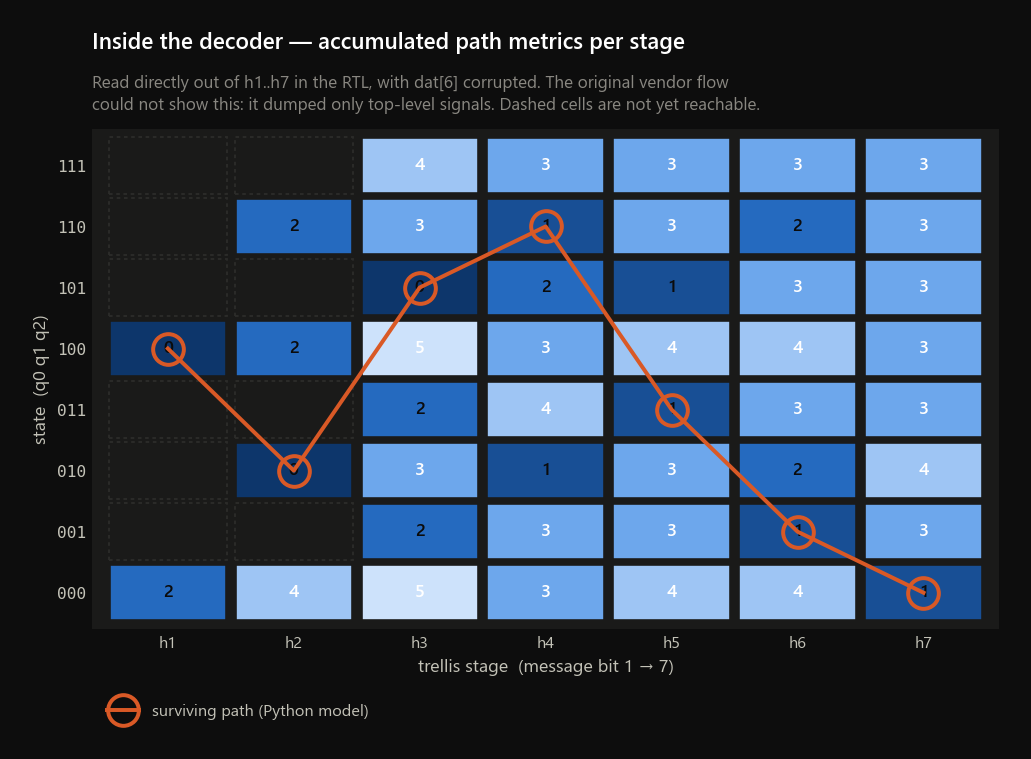
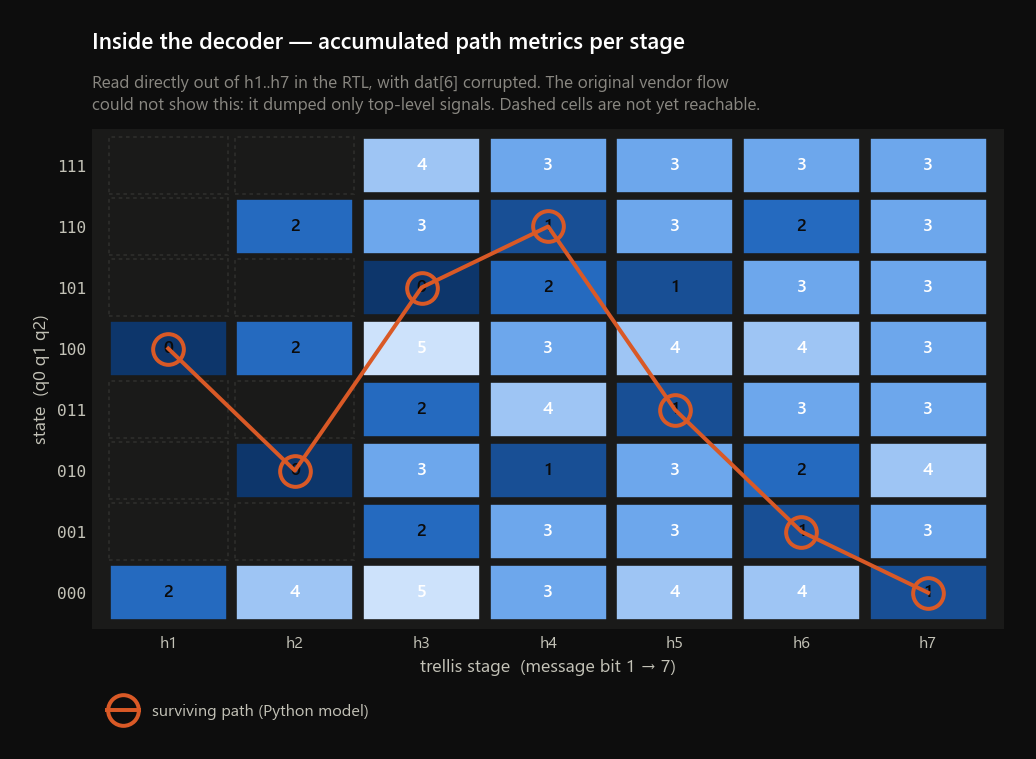
Add terminated-decoder figures; correct the critical-path claim
The terminated decoder had no figure of its own -- the waveforms and the
per-stage metric view both stopped at the 14-bit variant.  tb/decoder_term_bench.sv
decodes a single word so both can be drawn; system_term_tb's VCD covers
2688 cases and is far too large to plot.

The metrics figure deliberately does not use the canonical message.  1011000
already leaves the trellis in state 000, so its tail would confirm rather
than correct and the figure would show the tail doing nothing.  It uses
1011011 instead, which ends in state 110, with codeword bit 0 corrupted --
an error the unterminated decoder gets wrong (it returns 1011010).  The
three tail stages then visibly walk the survivor 110 -> 011 -> 001 -> 000,
which is the whole argument for terminating, in one picture.

Also corrects a wrong claim that had been repeated in three places.  The
docs said the clock ceiling was the seven-deep getReturnPath() case tree.
Reading results/synth/*_nextpnr.log rather than guessing shows otherwise:
in both variants the critical path starts at `data`, runs through a stage's
add-compare-select carry chains and ends at the `lowest_index` register --
it is the eight-way minimum-over-end-states search, chained combinationally
onto metrics computed earlier in the same clock edge because the decoder is
one always block using blocking assignments.

  decoder       60 hops   33.4 ns logic + 44.3 ns routing = 77.7 ns
  decoder_term  14 hops   12.7 ns logic + 24.2 ns routing = 36.9 ns
[…]

diff --git a/scripts/plot_waves.py b/scripts/plot_waves.py
@@ -234,15 +234,15 @@ def draw_encoder_full(theme):
     return fig, "encoder_waveform"
 
 
-def _decoder_figure(theme, vcd_name, stem, title, subtitle):
+def _decoder_figure(theme, vcd_name, stem, title, subtitle, *, dat_width=14):
     tr = Trace(VCD_DIR / vcd_name)
     rows = [
         {"label": "clk",       "y": 6.0, "sig": "clk",     "kind": "bit",
          "ctl": True, "lw": 1.1},
         {"label": "reset",     "y": 5.0, "sig": "reset",   "kind": "bit", "ctl": True},
         {"label": "ready",     "y": 4.0, "sig": "ready",   "kind": "bit", "ctl": True},
-        {"label": "dat[13:0]", "y": 3.0, "sig": "dat",     "kind": "bus", "slot": 0,
-         "width": 14},
+        {"label": f"dat[{dat_width - 1}:0]", "y": 3.0, "sig": "dat",
+         "kind": "bus", "slot": 0, "width": dat_width},
         {"label": "steps_n",   "y": 2.0, "sig": "steps_n", "kind": "bus", "slot": 2},
         {"label": "stage_n",   "y": 1.0, "sig": "stage_n", "kind": "bus", "slot": 3},
         {"label": "out[6:0]",  "y": 0.0, "sig": "out",     "kind": "bus", "slot": 1,
@@ -277,26 +277,37 @@ def draw_decoder_error(theme):
         "demonstrate.")
 
 
-def draw_metrics(theme):
-    """The 8x7 path-metric matrix read straight out of the RTL.
+def draw_decoder_term(theme):
+    return _decoder_figure(
+        theme, "decoder_term_bench.vcd", "decoder_term_waveform",
+        "Terminated decoder — 20-bit block, survivor pinned to state 0",
+        "The same message, encoded with a three-bit zero tail: "
+        "dat = 11110111010111000000.\nsteps_n now walks ten stages rather than "
+        "seven, and traceback needs no end-state search.",
+        dat_width=20)
+
+
+def _metrics_figure(theme, vcd_name, stages, word, end_state, stem,
+                    title, subtitle):
+    """The 8 x `stages` path-metric matrix read straight out of the RTL.
 
     A view the original vendor flow could not produce: it dumped only top-level
-    testbench signals, so h1..h7 were invisible.  Each column is one trellis
+    testbench signals, so h1..hN were invisible.  Each column is one trellis
     stage's converged metrics; the survivor path from the Python model is
     overlaid to show the two agree.
     """
-    tr = Trace(VCD_DIR / "decoder_bench_error.vcd")
+    tr = Trace(VCD_DIR / vcd_name)
     t1 = tr.end
 
     # Each h<k> holds stage k's metrics; take the settled value at end of sim.
-    metrics = np.full((8, 7), np.nan)
-    for k in range(1, 8):
+    metrics = np.full((8, stages), np.nan)
+    for k in range(1, stages + 1):
         for s in range(8):
             _, v = tr.steps(f"h{k}.hammingDistances.finalStates[{s}]", t1)
             metrics[s, k - 1] = v[-1]
 
     # States unreachable that early carry a meaningless zero from reset.
-    for k in range(1, 8):
+    for k in range(1, stages + 1):
         reachable = min(2 ** k, 8)
         if reachable < 8:
             allowed = {0}
@@ -306,15 +317,15 @@ def draw_metrics(theme):
                 if s not in allowed:
                     metrics[s, k - 1] = np.nan
 
-    trace = ref.trellis_trace(ref.CANONICAL_CW ^ (1 << ref.CANONICAL_ERROR_BIT))
+    trace = ref.trellis_trace(word, stages, end_state=end_state)
     path = trace["path"]                    # path[k] = state after stage k
 
-    fig, ax = plt.subplots(figsize=(9.0, 5.0))
+    fig, ax = plt.subplots(figsize=(1.15 * stages + 1.0, 5.0))
     ramp = theme["seq"]
     vmax = np.nanmax(metrics)
 
     for s in range(8):
-        for k in range(7):
+        for k in range(stages):
             val = metrics[s, k]
             if np.isnan(val):
                 ax.add_patch(plt.Rectangle(
@@ -334,32 +345,71 @@ def draw_metrics(theme):
                     color=("#0b0b0b" if light else "#ffffff"))
 
     # survivor path on top
-    xs = list(range(1, 8))
-    ys = [path[k] + 1 for k in range(1, 8)]
+    xs = list(range(1, stages + 1))
+    ys = [path[k] + 1 for k in range(1, stages + 1)]
     # Open markers so the metric printed in each cell stays readable.
     ax.plot(xs, ys, color=theme["series"][1], lw=2.2, marker="o",
             markersize=17, markerfacecolor="none", markeredgewidth=2.2,
             zorder=10, label="surviving path (Python model)")
 
-    ax.set_xlim(0.4, 7.6)
+    # Mark where the message ends and the zero tail begins.
+    if end_state is not None and stages > ref.MSG_BITS:
+        ax.axvline(ref.MSG_BITS + 0.5, color=theme["ink"], lw=1.6)
+        # Only the tail is labelled: the divider and the x-axis label already
+        # say where the message ends, and a second caption here would run into
+        # the subtitle.
+        ax.annotate("zero tail", xy=((ref.MSG_BITS + stages + 2) / 2, 8.60),
+                    xytext=(0, 5), textcoords="offset points", ha="center",
+                    va="bottom", fontsize=9, fontweight="600",
+                    color=theme["ink2"], clip_on=False)
+
+    ax.set_xlim(0.4, stages + 0.6)
     ax.set_ylim(0.4, 8.6)
-    ax.set_xticks(range(1, 8))
-    ax.set_xticklabels([f"h{k}" for k in range(1, 8)])
+    ax.set_xticks(range(1, stages + 1))
+    ax.set_xticklabels([f"h{k}" for k in range(1, stages + 1)])
     ax.set_yticks(range(1, 9))
     ax.set_yticklabels([f"{s:03b}" for s in range(8)], fontfamily="monospace")
-    ax.set_xlabel("trellis stage  (message bit 1 → 7)")
     ax.set_ylabel("state  (q0 q1 q2)")
     ax.grid(False)
     vs.despine(ax, keep=())
     ax.tick_params(length=0)
-    vs.titles(ax,
-              "Inside the decoder — accumulated path metrics per stage",
-              "Read directly out of h1..h7 in the RTL, with dat[6] corrupted. "
-              "The original vendor flow\ncould not show this: it dumped only "
-              "top-level signals. Dashed cells are not yet reachable.",
-              theme)
+    vs.titles(ax, title, subtitle, theme)
     ax.legend(loc="upper left", bbox_to_anchor=(0, -0.12), frameon=False)
-    return fig, "decoder_metrics"
+    return fig, stem
+
+
+def draw_metrics(theme):
+    fig, stem = _metrics_figure(
+        theme, "decoder_bench_error.vcd", 7,
+        ref.CANONICAL_CW ^ (1 << ref.CANONICAL_ERROR_BIT), None,
+        "decoder_metrics",
+        "Inside the decoder — accumulated path metrics per stage",
+        "Read directly out of h1..h7 in the RTL, with dat[6] corrupted. "
+        "The original vendor flow\ncould not show this: it dumped only "
+        "top-level signals. Dashed cells are not yet reachable.")
+    fig.axes[0].set_xlabel("trellis stage  (message bit 1 → 7)")
+    return fig, stem
+
+
+#: A case chosen to show the tail doing work.  The canonical message already
+#: leaves the trellis in state 000, so its tail would confirm rather than
+#: correct.  1011011 ends in state 110, and its codeword bit 0 is flipped --
+#: exactly the error the unterminated decoder gets wrong (it returns 1011010).
+TERM_DEMO_MSG = 0b1011011
+TERM_DEMO_ERROR_BIT = 0
+
+
+def draw_metrics_term(theme):
+    fig, stem = _metrics_figure(
+        theme, "decoder_term_bench_tail.vcd", ref.TERM_STAGES,
+        ref.encode_terminated(TERM_DEMO_MSG) ^ (1 << TERM_DEMO_ERROR_BIT), 0,
+        "decoder_term_metrics",
+        "Inside the terminated decoder — the tail drives the survivor home",
+        "Message 1011011 leaves the trellis in state 110, and codeword bit 0 is "
+        "corrupted — an error\nthe unterminated decoder gets wrong. The three "
+        "tail stages walk the survivor back to 000.")
+    fig.axes[0].set_xlabel("trellis stage  (7 message bits + 3 tail bits)")
+    return fig, stem
 
 
 def main() -> None:
@@ -373,6 +423,12 @@ def main() -> None:
     vs.both_themes(draw_decoder_clean)
     vs.both_themes(draw_decoder_error)
     vs.both_themes(draw_metrics)
+    if (VCD_DIR / "decoder_term_bench.vcd").exists():
+        vs.both_themes(draw_decoder_term)
+        vs.both_themes(draw_metrics_term)
+    else:
+        print("  skipping terminated figures -- run: "
+              "python scripts/run_all.py sim")
 
 
 if __name__ == "__main__":

diff --git a/scripts/run_all.py b/scripts/run_all.py
@@ -41,6 +41,7 @@ IMG_DIR = REPO / "docs" / "img"
 RTL_DECODER = ["rtl/decoder.sv"]
 RTL_ENCODER = ["rtl/d_ff.sv"]
 RTL_BOTH = ["rtl/decoder.sv", "rtl/d_ff.sv"]
+RTL_DECODER_TERM = ["rtl/decoder_term.sv"]
 RTL_BOTH_TERM = ["rtl/decoder_term.sv", "rtl/d_ff.sv"]
 
 GREEN, RED, YELLOW, DIM, RESET = (
@@ -156,6 +157,31 @@ def cmd_sim(args) -> None:
                 sys.stdout.write(proc.stdout)
                 raise SystemExit(f"decoder_bench {label} FAILED")
             _ok(f"decoder_bench {label:<5}  dat={dat}  out=1011000")
+
+    if only in (None, "decoder_term_bench"):
+        vl.build("decoder_term_bench", RTL_DECODER_TERM + ["tb/decoder_term_bench.sv"])
+        # One decode, so the waveform and the per-stage metrics can be plotted;
+        # system_term_tb's VCD covers 2688 cases and is far too large for that.
+        # Two decodes.  The canonical message keeps the waveform figure
+        # consistent with every other figure in the repo -- but it happens to
+        # end in state 000 already, so it would not show the tail doing any
+        # work.  The second case is chosen to: message 1011011 leaves the
+        # trellis in state 110, and its codeword bit 0 is flipped -- an error
+        # the unterminated decoder gets wrong (it returns 1011010).
+        for label, dat, exp in [
+            ("",      "11110111010111000000", "1011000"),
+            ("_tail", "11110111011011010110", "1011011"),
+        ]:
+            proc = vl.run(
+                "decoder_term_bench",
+                plusargs={"DAT": dat, "EXP": exp,
+                          "VCD": f"results/vcd/decoder_term_bench{label}.vcd"},
+                quiet=True, check=False,
+            )
+            if "PASS" not in proc.stdout or proc.returncode != 0:
+                sys.stdout.write(proc.stdout)
+                raise SystemExit(f"decoder_term_bench{label} FAILED")
+            _ok(f"decoder_term_bench  dat={dat}  out={exp}")
 
     if only in (None, "encoder_bench"):
         vl.build("encoder_bench", RTL_ENCODER + ["tb/encoder_bench.sv"])
@@ -287,7 +313,8 @@ def main() -> None:
     sub.add_parser("cpp").set_defaults(func=cmd_cpp)
 
     s = sub.add_parser("sim")
-    s.add_argument("--only", choices=["legacy", "decoder_bench", "encoder_bench"])
+    s.add_argument("--only", choices=["legacy", "decoder_bench",
+                                     "decoder_term_bench", "encoder_bench"])
     s.set_defaults(func=cmd_sim)
 
     sub.add_parser("sweep").set_defaults(func=cmd_sweep)

diff --git a/model/viterbi_ref.py b/model/viterbi_ref.py
@@ -270,13 +270,20 @@ def decode_terminated(word: int, n_bits: int = MSG_BITS) -> int:
     return msg
 
 
-def trellis_trace(word: int = CANONICAL_CW, n_bits: int = MSG_BITS):
-    """Metrics + survivors for plotting, plus the surviving state path."""
+def trellis_trace(word: int = CANONICAL_CW, n_bits: int = MSG_BITS,
+                  end_state: int | None = None):
+    """Metrics + survivors for plotting, plus the surviving state path.
+
+    ``n_bits`` is the number of trellis *stages*, so a terminated block passes
+    10 rather than 7, together with ``end_state=0``.
+    """
     received = [(word >> (2 * n_bits - 1 - i)) & 1 for i in range(2 * n_bits)]
-    bits, history, survivors = decode_bits(received, trace=True)
+    bits, history, survivors = decode_bits(received, trace=True,
+                                           end_state=end_state)
 
     final = history[-1]
-    end = min(range(N_STATES), key=lambda s: (final[s], s))
+    end = (end_state if end_state is not None
+           else min(range(N_STATES), key=lambda s: (final[s], s)))
     path = [end]
     state = end
     for k in range(n_bits - 1, -1, -1):

diff --git a/README.md b/README.md
@@ -159,6 +159,29 @@ with the surviving path from the Python model overlaid.
   </picture>
 </p>
 
+The terminated decoder, same view — twenty received bits, ten trellis stages,
+and no end-state search at all:
+
+<p align="center">
+  <picture>
+    <source media="(prefers-color-scheme: dark)" srcset="docs/img/decoder_term_waveform-dark.png">
+    <img src="docs/img/decoder_term_waveform.png" alt="Terminated decoder waveform" width="880">
+  </picture>
+</p>
+
+<p align="center">
+  <picture>
+    <source media="(prefers-color-scheme: dark)" srcset="docs/img/decoder_term_metrics-dark.png">
+    <img src="docs/img/decoder_term_metrics.png" alt="Path metrics with the zero tail" width="880">
+  </picture>
+</p>
+
+That last figure is the clearest picture of what termination does. Message
+`1011011` leaves the trellis in state `110`, and codeword bit 0 is corrupted —
+an error the unterminated decoder gets wrong. The three tail stages walk the
+survivor back down to `000`, which is why traceback can start there without
+searching.
+
 ### Correctness
 
 Both decoders are driven end to end from the encoder, for **every message ×
@@ -240,17 +263,20 @@ plus nextpnr-ice40, targeting a Lattice iCE40 UP5K in SG48:
 | Logic cells | 1810 / 5280 (34%) | 2356 / 5280 (44%) |
 | LUT4 / carry / flops | 1338 / 511 / 497 | 1936 / 799 / 703 |
 | Fmax | ~13 MHz | ~27 MHz |
-| Critical path | 77.7 ns | 36.9 ns |
+| Critical path | 77.7 ns, 60 hops | 36.9 ns, 14 hops |
 
 The terminated decoder being 30% larger is expected — three more trellis stages.
-Its being **twice as fast** is less obvious: the unterminated variant carries an
-eight-way minimum search over the final path metrics, evaluated combinationally
-inside one clock edge, which the terminated variant does not need because its
-end state is known. Fmax moves by roughly ±0.5 MHz between placer seeds.
+Its being **twice as fast** is less obvious, and the timing report gives a clear
+answer: in both designs the critical path ends at `lowest_index`, i.e. in the
+eight-way minimum-over-end-states search. Because the decoder is one `always`
+block using blocking assignments, that search is chained combinationally onto
+metrics computed earlier in the same clock edge. `decoder_term` has no search at
+all — a terminated trellis knows the survivor ends in state 0 — and the path
+drops from 60 hops to 14.
 
-Either way the ceiling is combinational depth in a single edge. Storing survivor
-pointers in a RAM instead of recomputing them from sentinels, or pipelining
-`getReturnPath()`, is the obvious next step.
+The obvious next step for the unterminated decoder is therefore to register the
+end-state search rather than fold it into the same edge, at the cost of one
+clock of latency. Fmax moves by roughly ±0.5 MHz between placer seeds.
 
 ---
 

diff --git a/docs/architecture.md b/docs/architecture.md
@@ -156,17 +156,22 @@ Two things in that table are worth reading carefully.
 The terminated decoder is 30% larger, which is expected - three more trellis
 stages means three more `HammingTable` structs and three more ladder blocks.
 
-It is also **twice as fast**, which is not obvious. The structural difference is
-that the unterminated variant contains an eight-way minimum search over
-`temp_states` to find the best end state, evaluated combinationally within one
-clock edge; the terminated variant has no such search because the end state is
-known. Both critical paths run from `data[*]` into a stage's metric flops, and
-the unterminated one is more than twice as long. Fmax varies by roughly ±0.5 MHz
-between placer seeds, so treat these as approximate.
+It is also **twice as fast**, and the timing report says why. In both variants
+the critical path starts at `data`, runs through a stage's add-compare-select
+carry chains, and ends at the `lowest_index` register - that is, it ends in the
+eight-way minimum-over-end-states search. Because the whole decoder is one
+`always` block using blocking assignments, that search is chained
+combinationally onto metrics computed earlier in the *same* clock edge.
 
-Either way the ceiling is combinational depth evaluated in a single edge.
-Storing survivor pointers in a RAM instead of recomputing them from sentinels,
-or pipelining `getReturnPath()`, is the obvious next step.
+`decoder_term` does not have the search: a terminated trellis knows the survivor
+ends in state 0, so `lowest_index` is simply assigned 0. That takes the path
+from 60 hops to 14.
+
+So the ceiling is the end-state search, not the traceback tree - an earlier
+version of these notes said `getReturnPath()` and was wrong. The fix for the
+unterminated decoder is to register the search rather than fold it into the same
+edge, at the cost of one clock of latency. Fmax varies by roughly ±0.5 MHz
+between placer seeds, so treat the table as approximate.
 
 See also [bitorder.md](bitorder.md), [known-issues.md](known-issues.md),
 [toolchain.md](toolchain.md).

diff --git a/docs/known-issues.md b/docs/known-issues.md
@@ -133,9 +133,31 @@ the generated RTL deliberately mirrors the original's structure.
 `WIDTHTRUNC` and `WIDTHEXPAND` explicitly rather than globally, so any *new*
 width warning still fails the build.
 
-### 10. The traceback tree is the clock ceiling
+### 10. The end-state search sits on the clock's critical path
 
-`getReturnPath()` is a chain of 8-way case statements — one per trellis stage —
-evaluated inside a single clock edge. Storing survivor pointers in a RAM instead
-of recomputing them from sentinels, or pipelining the tree, is the obvious next
-step. See [architecture.md](architecture.md).
+Earlier revisions of this document claimed the ceiling was `getReturnPath()`.
+Reading the nextpnr timing report rather than guessing shows otherwise, so the
+claim is corrected here.
+
+In **both** variants the critical path starts at `data`, runs through a stage's
+metric add-compare-select carry chains, and *ends at the `lowest_index`
+register*. That is the eight-way minimum-over-end-states search being chained
+combinationally onto the ACS logic inside a single clock edge — which happens
+because the whole decoder is one `always` block using blocking assignments
+(issue 8), so the search reads metrics computed earlier in the same edge.
+
+| | hops on the critical path | logic | routing | total |
+|---|---|---|---|---|
+| `decoder` | 60 | 33.4 ns | 44.3 ns | 77.7 ns |
+| `decoder_term` | 14 | 12.7 ns | 24.2 ns | 36.9 ns |
+
+`decoder_term` sets `lowest_index = 0` outright, because a terminated trellis
+knows where the survivor ends. Deleting the search takes the path from 60 hops
+to 14 and roughly doubles Fmax, despite the design being 30% larger.
+
+For the unterminated decoder the fix is to register the end-state search rather
+than fold it into the same edge, costing one clock of latency. `getReturnPath()`
+is on the terminated variant's path but is not what limits either design today.
+
+Fmax varies by roughly ±0.5 MHz between placer seeds; the numbers above come
+from `results/synth/*_nextpnr.log` at seed 1.
